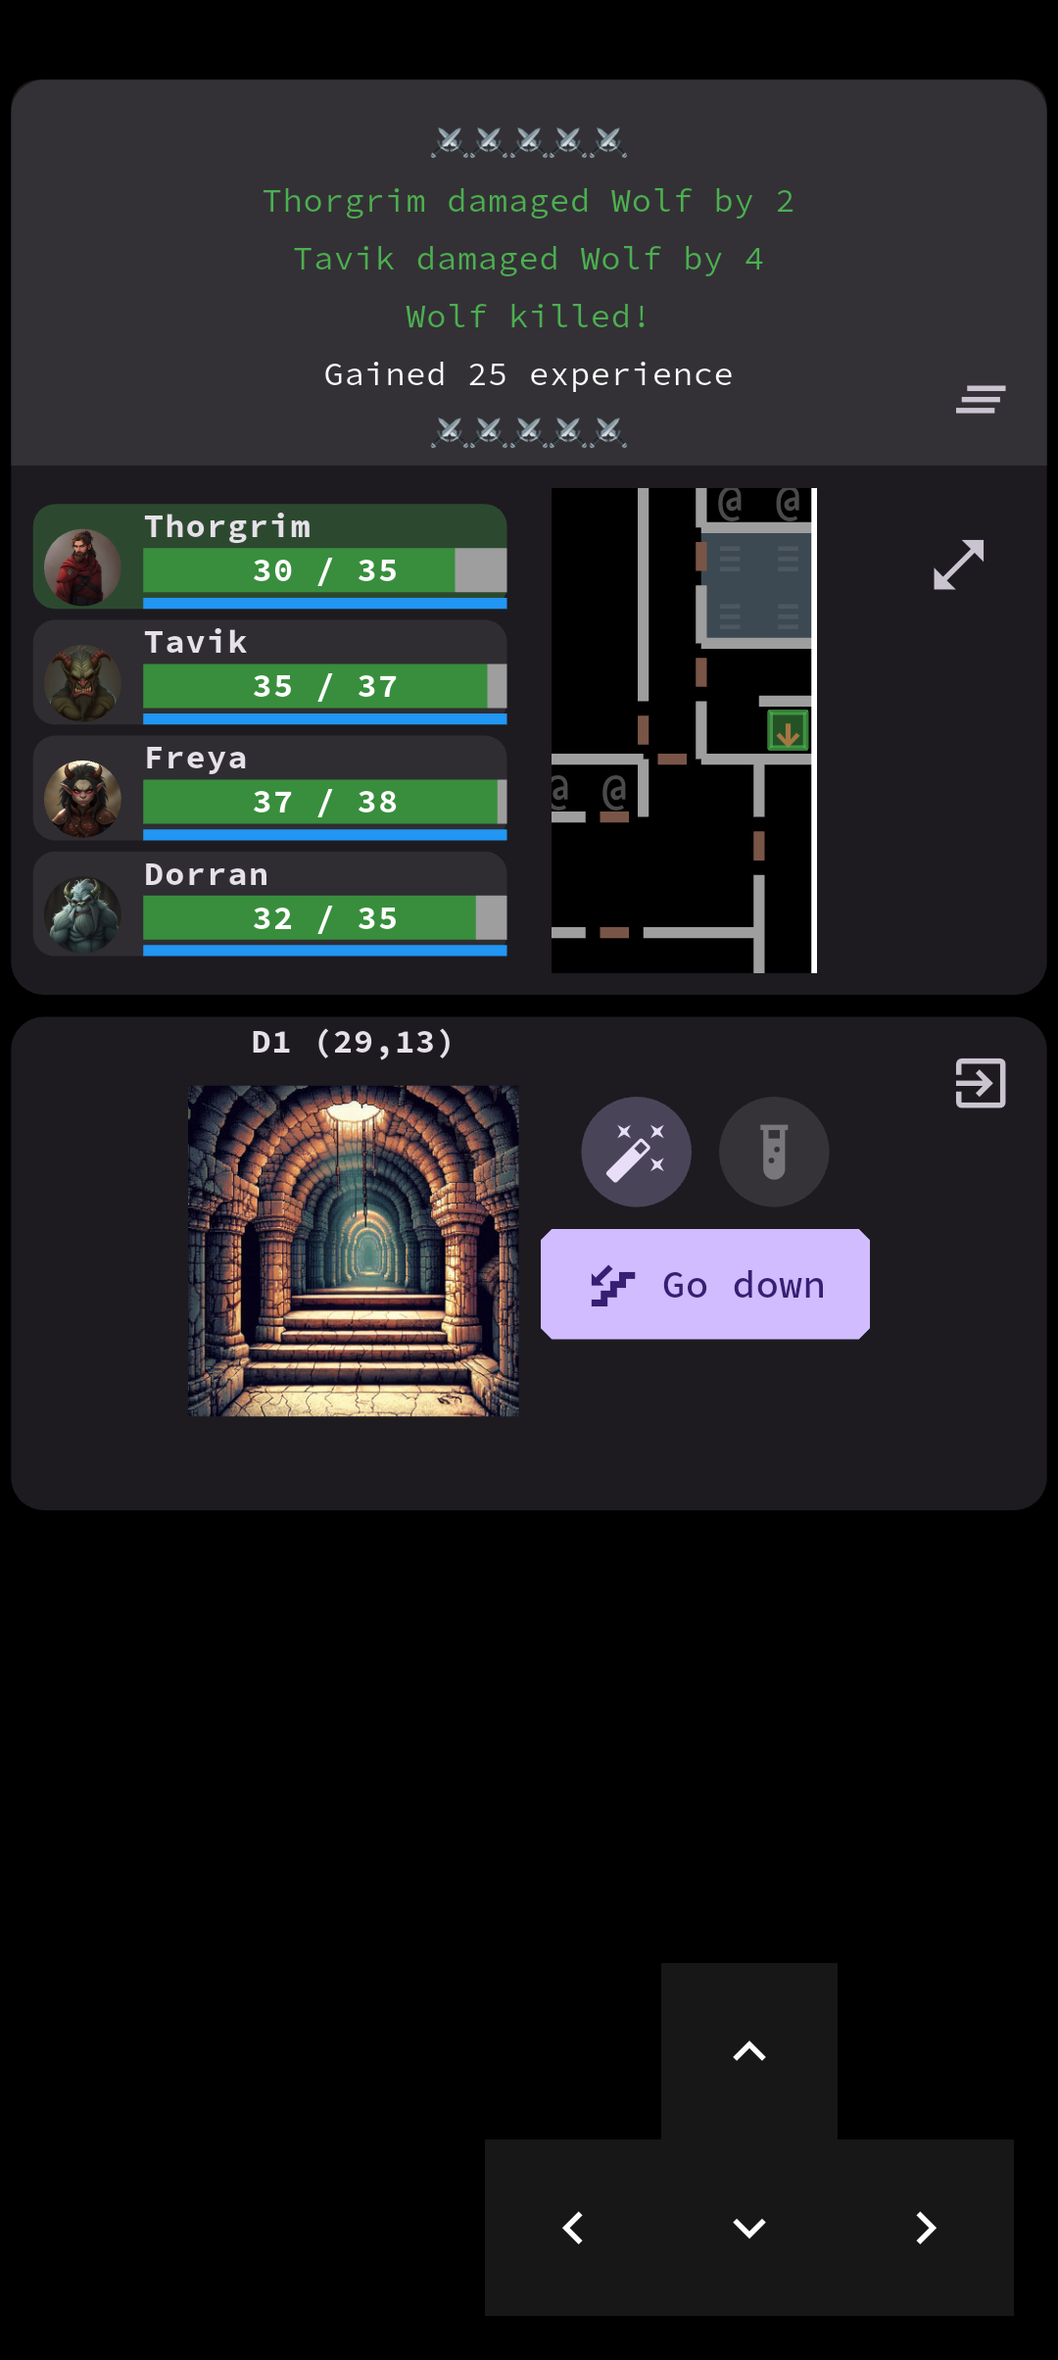
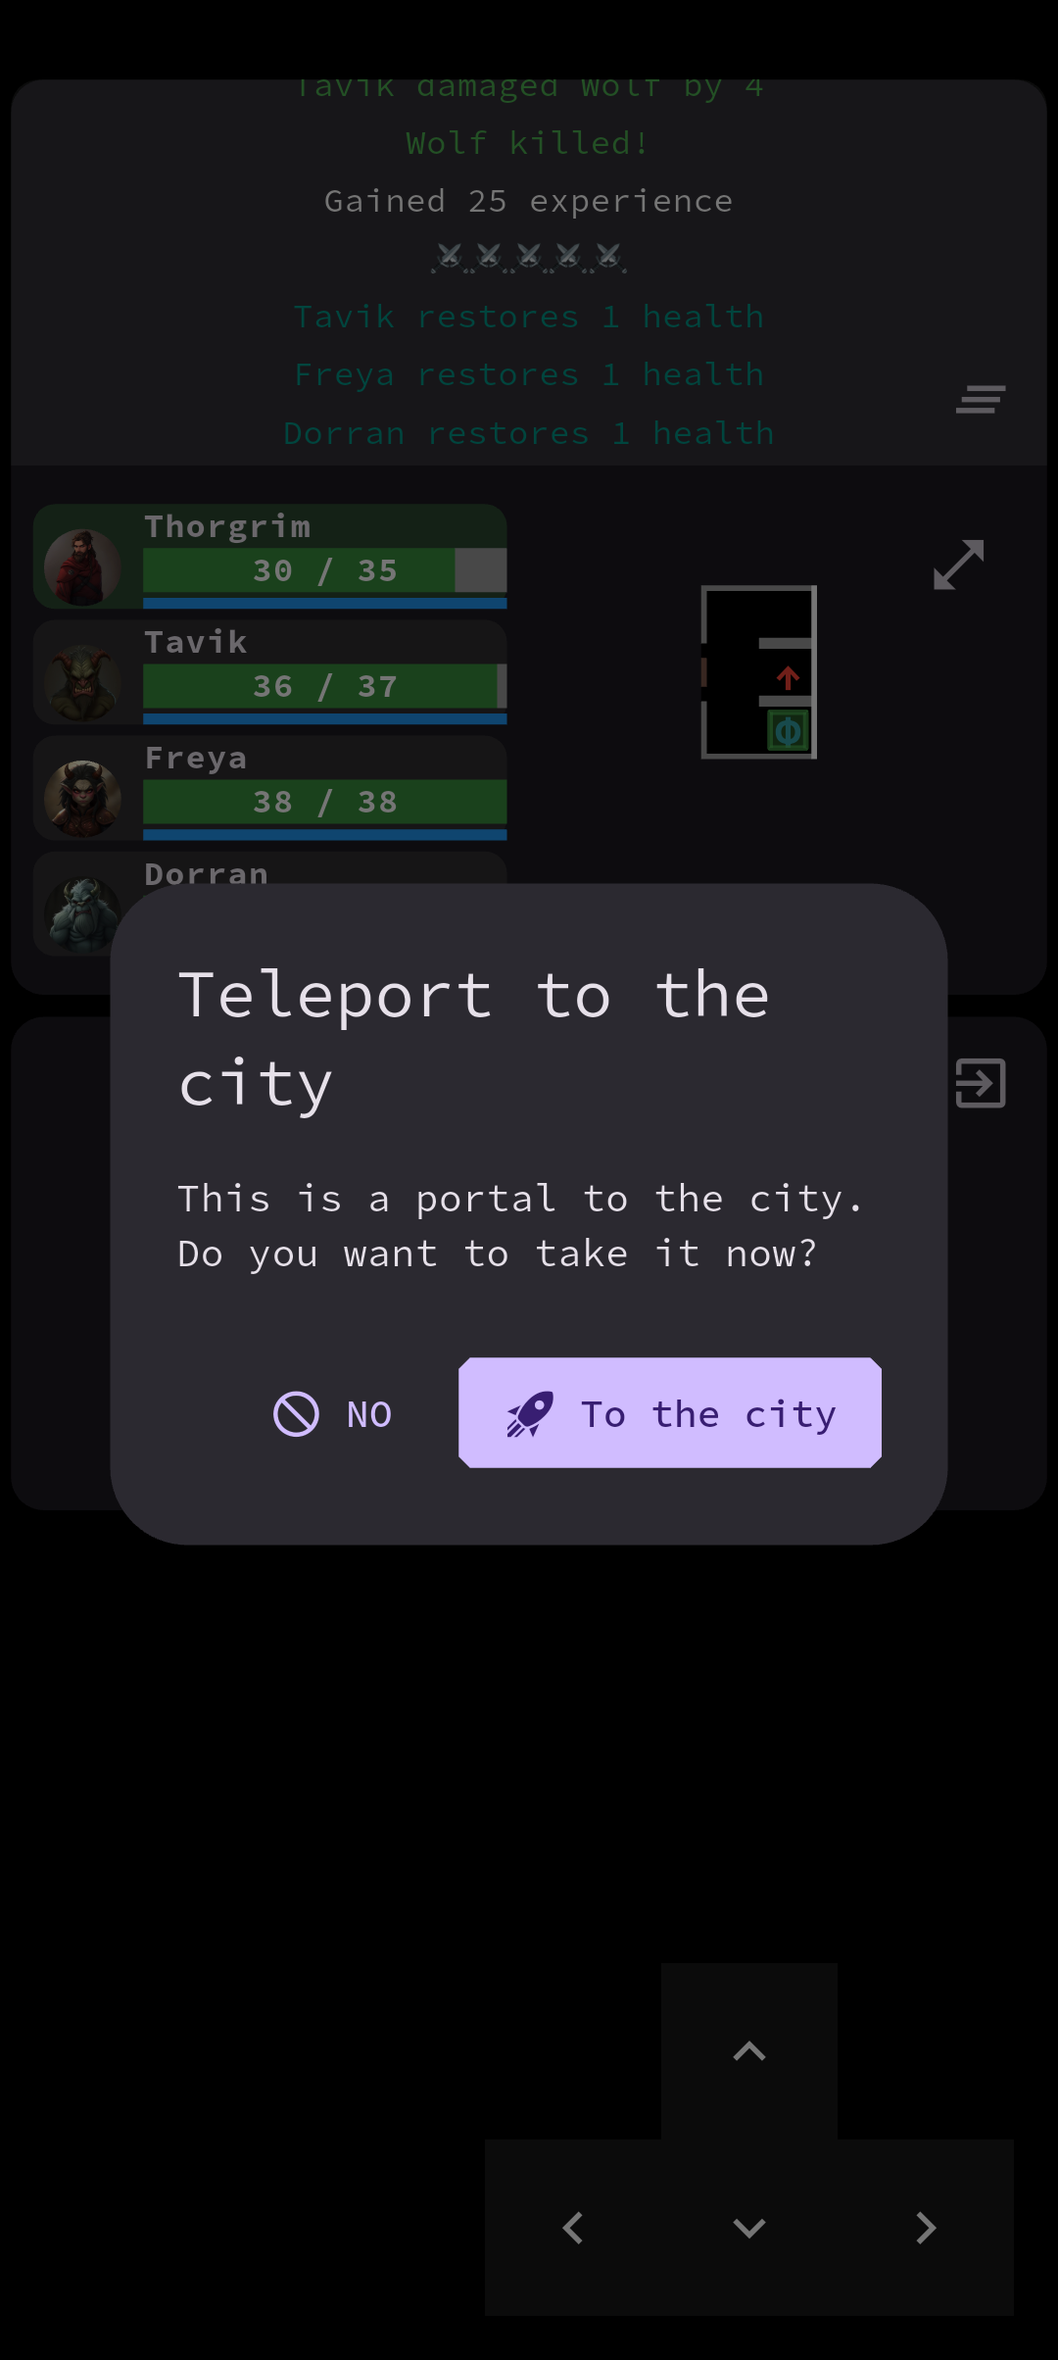
A

diff --git a/src/screencap.rs b/src/screencap.rs
@@ -284,7 +284,7 @@ fn get_info(image:&DynamicImage, opt:&Opt) -> DungeonInfo {
 
 pub fn bitmap_from_image(image:&DynamicImage, opt:&Opt) -> Option<Bitmap> {
     let mut bitmap = Bitmap::with_capacity(100);
-    for (x, y) in [(918u16,138u16),(749,686),(739,686),(749,686),(739,686),(749,746),(739,746),(749,746),(739,746),(749,806),(739,806),(749,806),(739,806),(809,686),(799,686),(809,686),(799,686),(809,746),(799,746),(809,746),(799,746),(560,930),(620,930),(680,930),(740,930),(800,930),(860,930),(920,930),(560,570),(560,630),(560,690),(560,750),(560,810),(560,870),(620,570),(620,630),(620,690),(620,750),(620,810),(620,870),(680,570),(680,630),(680,690),(680,750),(680,810),(680,870),(740,570),(740,630),(740,690),(740,750),(740,810),(740,870),(800,570),(800,630),(800,690),(800,750),(800,810),(800,870),(860,570),(860,630),(860,690),(860,750),(860,810),(860,870),(920,570),(920,630),(920,690),(920,750),(920,810),(920,870),(928,574),(928,634),(928,694),(928,754),(928,814),(928,874),(928,934),(568,574),(568,634),(568,694),(568,754),(568,814),(568,874),(568,934),(628,574),(628,634),(628,694),(628,754),(628,814),(628,874),(628,934),(688,574),(688,634),(688,694),(688,754),(688,814),(688,874),(688,934),(748,574),(748,634),(748,694),(748,754),(748,814),(748,874),(748,934),(808,574),(808,634),(808,694),(808,754),(808,814),(808,874),(808,934),(868,574),(868,634),(868,694),(868,754),(868,814),(868,874),(868,934),(642, 1201),(608, 1307),(609, 1329),(952,927),(926,953),(897,927),(592,927),(566,953),(537,927),(652,927),(626,953),(597,927),(712,927),(686,953),(657,927),(772,927),(746,953),(717,927),(832,927),(806,953),(777,927),(892,927),(866,953),(837,927),(592,867),(566,893),(537,867),(652,867),(626,893),(597,867),(712,867),(686,893),(657,867),(772,867),(746,893),(717,867),(832,867),(806,893),(777,867),(892,867),(866,893),(837,867),(952,867),(926,893),(897,867),(892,627),(866,653),(837,627),(892,687),(866,713),(837,687),(892,747),(866,773),(837,747),(892,807),(866,833),(837,807),(926,538),(952,567),(926,593),(897,567),(952,627),(926,653),(897,627),(952,687),(926,713),(897,687),(952,747),(926,773),(897,747),(952,807),(926,833),(897,807),(592,567),(566,593),(537,567),(592,627),(566,653),(537,627),(592,687),(566,713),(537,687),(592,747),(566,773),(537,747),(592,807),(566,833),(537,807),(652,567),(626,593),(597,567),(652,627),(626,653),(597,627),(652,687),(626,713),(597,687),(652,747),(626,773),(597,747),(652,807),(626,833),(597,807),(712,567),(686,593),(657,567),(712,627),(686,653),(657,627),(712,687),(686,713),(657,687),(712,747),(686,773),(657,747),(712,807),(686,833),(657,807),(772,567),(746,593),(717,567),(772,627),(746,653),(717,627),(772,687),(746,713),(717,687),(772,747),(746,773),(717,747),(772,807),(746,833),(717,807),(832,567),(806,593),(777,567),(832,627),(806,653),(777,627),(832,687),(806,713),(777,687),(832,747),(806,773),(777,747),(832,807),(806,833),(777,807),(866,538),(892,567),(866,593),(837,567),(566,898),(626,898),(686,898),(746,898),(806,898),(866,898),(926,898),(866,538),(566,838),(626,838),(686,838),(746,598),(746,658),(746,718),(746,778),(746,838),(806,538),(806,598),(806,658),(806,718),(806,778),(806,838),(866,598),(866,658),(866,718),(866,778),(866,838),(926,598),(926,658),(926,718),(926,778),(926,838),(566,538),(566,598),(566,658),(566,718),(566,778),(626,538),(626,598),(626,658),(626,718),(626,778),(686,538),(686,598),(686,658),(686,718),(686,778),(746,538),(147,680), (147,800), (75,1512), (147,920),(466,1116),(827,1306),(147,560),(671,1309),(90,1472),(511,1471),(511-89,1471),(514,560),(291,560),(514,680),(514,800),(514,920),(566,566),(564,566),(566,537),(566,538),(592,566),(566,592),(537,566),(566,626),(564,626),(566,597),(592,626),(566,652),(537,626),(566,686),(566,746),(566,806),(564,806),(566,777),(592,806),(566,832),(537,806),(566,866),(566,926),(626,566),(624,566),(626,537),(652,566),(626,592),(597,566),(626,626),(624,626),(626,597),(652,626),(626,652),(597,626),(626,686),(626,746),(626,806),(624,806),(626,777),(652,806),(626,832),(597,806),(626,866),(626,926),(686,566),(684,566),(686,537),(712,566),(686,592),(657,566),(686,626),(684,626),(686,597),(712,626),(686,652),(657,626),(686,686),(686,746),(686,806),(684,806),(686,777),(712,806),(686,832),(657,806),(686,866),(686,926),(746,566),(744,566),(746,537),(772,566),(746,592),(717,566),(746,626),(746,686),(746,746),(746,806),(744,806),(746,777),(772,806),(746,832),(717,806),(746,866),(746,926),(806,566),(804,566),(806,537),(832,566),(806,592),(777,566),(806,626),(804,626),(806,597),(832,626),(806,652),(777,626),(806,686),(804,686),(806,657),(832,686),(806,712),(777,686),(806,746),(804,746),(806,717),(832,746),(806,772),(777,746),(806,806),(804,806),(806,777),(832,806),(806,832),(777,806),(806,866),(806,926),(866,566),(864,566),(866,537),(892,566),(866,592),(837,566),(866,626),(864,626),(866,597),(892,626),(866,652),(837,626),(866,686),(864,686),(866,657),(892,686),(866,712),(837,686),(866,746),(864,746),(866,717),(892,746),(866,772),(837,746),(866,806),(864,806),(866,777),(892,806),(866,832),(837,806),(866,866),(866,926),(926,566),(924,566),(926,537),(952,566),(926,592),(897,566),(926,626),(924,626),(926,597),(952,626),(926,652),(897,626),(926,686),(924,686),(926,657),(952,686),(926,712),(897,686),(926,746),(924,746),(926,717),(952,746),(926,772),(897,746),(926,806),(924,806),(926,777),(952,806),(926,832),(897,806),(926,866),(926,926),(355,1471),(355-89,1471),(181,1471),(181-89,1471),(291,920),(827,1260),(979,1083),(1023,1116),(716,1279),(564,686),(566,657),(592,686),(566,712),(537,686),(564,866),(566,837),(592,866),(566,892),(537,866),(624,686),(626,657),(652,686),(626,712),(597,686),(624,866),(626,837),(652,866),(626,892),(597,866),(684,686),(686,657),(712,686),(686,712),(657,686),(684,866),(686,837),(712,866),(686,892),(657,866),(744,626),(746,597),(772,626),(746,652),(717,626),(744,866),(746,837),(772,866),(746,892),(717,866),(804,866),(806,837),(832,866),(806,892),(777,866),(864,866),(866,837),(892,866),(866,892),(837,866),(924,866),(926,837),(952,866),(926,892),(897,866),(564,746),(566,717),(592,746),(566,772),(537,746),(564,926),(566,897),(592,926),(566,952),(537,926),(624,746),(626,717),(652,746),(626,772),(597,746),(624,926),(626,897),(652,926),(626,952),(597,926),(684,746),(686,717),(712,746),(686,772),(657,746),(684,926),(686,897),(712,926),(686,952),(657,926),(744,686),(746,657),(772,686),(746,712),(717,686),(744,926),(746,897),(772,926),(746,952),(717,926),(804,926),(806,897),(832,926),(806,952),(777,926),(864,926),(866,897),(892,926),(866,952),(837,926),(924,926),(926,897),(952,926),(926,952),(897,926),(690,1306),(422,1471),(744,746),(746,717),(772,746),(746,772),(717,746),(291,680),(717,1326),(291,800),(949,138),(919,168),(949,168),(752,1926),(462,1254)] {
+    for (x, y) in [(918u16,138u16),(911,940),(155,940),(749,686),(739,686),(749,686),(739,686),(749,746),(739,746),(749,746),(739,746),(749,806),(739,806),(749,806),(739,806),(809,686),(799,686),(809,686),(799,686),(809,746),(799,746),(809,746),(799,746),(560,930),(620,930),(680,930),(740,930),(800,930),(860,930),(920,930),(560,570),(560,630),(560,690),(560,750),(560,810),(560,870),(620,570),(620,630),(620,690),(620,750),(620,810),(620,870),(680,570),(680,630),(680,690),(680,750),(680,810),(680,870),(740,570),(740,630),(740,690),(740,750),(740,810),(740,870),(800,570),(800,630),(800,690),(800,750),(800,810),(800,870),(860,570),(860,630),(860,690),(860,750),(860,810),(860,870),(920,570),(920,630),(920,690),(920,750),(920,810),(920,870),(928,574),(928,634),(928,694),(928,754),(928,814),(928,874),(928,934),(568,574),(568,634),(568,694),(568,754),(568,814),(568,874),(568,934),(628,574),(628,634),(628,694),(628,754),(628,814),(628,874),(628,934),(688,574),(688,634),(688,694),(688,754),(688,814),(688,874),(688,934),(748,574),(748,634),(748,694),(748,754),(748,814),(748,874),(748,934),(808,574),(808,634),(808,694),(808,754),(808,814),(808,874),(808,934),(868,574),(868,634),(868,694),(868,754),(868,814),(868,874),(868,934),(642, 1201),(608, 1307),(609, 1329),(952,927),(926,953),(897,927),(592,927),(566,953),(537,927),(652,927),(626,953),(597,927),(712,927),(686,953),(657,927),(772,927),(746,953),(717,927),(832,927),(806,953),(777,927),(892,927),(866,953),(837,927),(592,867),(566,893),(537,867),(652,867),(626,893),(597,867),(712,867),(686,893),(657,867),(772,867),(746,893),(717,867),(832,867),(806,893),(777,867),(892,867),(866,893),(837,867),(952,867),(926,893),(897,867),(892,627),(866,653),(837,627),(892,687),(866,713),(837,687),(892,747),(866,773),(837,747),(892,807),(866,833),(837,807),(926,538),(952,567),(926,593),(897,567),(952,627),(926,653),(897,627),(952,687),(926,713),(897,687),(952,747),(926,773),(897,747),(952,807),(926,833),(897,807),(592,567),(566,593),(537,567),(592,627),(566,653),(537,627),(592,687),(566,713),(537,687),(592,747),(566,773),(537,747),(592,807),(566,833),(537,807),(652,567),(626,593),(597,567),(652,627),(626,653),(597,627),(652,687),(626,713),(597,687),(652,747),(626,773),(597,747),(652,807),(626,833),(597,807),(712,567),(686,593),(657,567),(712,627),(686,653),(657,627),(712,687),(686,713),(657,687),(712,747),(686,773),(657,747),(712,807),(686,833),(657,807),(772,567),(746,593),(717,567),(772,627),(746,653),(717,627),(772,687),(746,713),(717,687),(772,747),(746,773),(717,747),(772,807),(746,833),(717,807),(832,567),(806,593),(777,567),(832,627),(806,653),(777,627),(832,687),(806,713),(777,687),(832,747),(806,773),(777,747),(832,807),(806,833),(777,807),(866,538),(892,567),(866,593),(837,567),(566,898),(626,898),(686,898),(746,898),(806,898),(866,898),(926,898),(866,538),(566,838),(626,838),(686,838),(746,598),(746,658),(746,718),(746,778),(746,838),(806,538),(806,598),(806,658),(806,718),(806,778),(806,838),(866,598),(866,658),(866,718),(866,778),(866,838),(926,598),(926,658),(926,718),(926,778),(926,838),(566,538),(566,598),(566,658),(566,718),(566,778),(626,538),(626,598),(626,658),(626,718),(626,778),(686,538),(686,598),(686,658),(686,718),(686,778),(746,538),(147,680), (147,800), (75,1512), (147,920),(466,1116),(827,1306),(147,560),(671,1309),(90,1472),(511,1471),(511-89,1471),(514,560),(291,560),(514,680),(514,800),(514,920),(566,566),(564,566),(566,537),(566,538),(592,566),(566,592),(537,566),(566,626),(564,626),(566,597),(592,626),(566,652),(537,626),(566,686),(566,746),(566,806),(564,806),(566,777),(592,806),(566,832),(537,806),(566,866),(566,926),(626,566),(624,566),(626,537),(652,566),(626,592),(597,566),(626,626),(624,626),(626,597),(652,626),(626,652),(597,626),(626,686),(626,746),(626,806),(624,806),(626,777),(652,806),(626,832),(597,806),(626,866),(626,926),(686,566),(684,566),(686,537),(712,566),(686,592),(657,566),(686,626),(684,626),(686,597),(712,626),(686,652),(657,626),(686,686),(686,746),(686,806),(684,806),(686,777),(712,806),(686,832),(657,806),(686,866),(686,926),(746,566),(744,566),(746,537),(772,566),(746,592),(717,566),(746,626),(746,686),(746,746),(746,806),(744,806),(746,777),(772,806),(746,832),(717,806),(746,866),(746,926),(806,566),(804,566),(806,537),(832,566),(806,592),(777,566),(806,626),(804,626),(806,597),(832,626),(806,652),(777,626),(806,686),(804,686),(806,657),(832,686),(806,712),(777,686),(806,746),(804,746),(806,717),(832,746),(806,772),(777,746),(806,806),(804,806),(806,777),(832,806),(806,832),(777,806),(806,866),(806,926),(866,566),(864,566),(866,537),(892,566),(866,592),(837,566),(866,626),(864,626),(866,597),(892,626),(866,652),(837,626),(866,686),(864,686),(866,657),(892,686),(866,712),(837,686),(866,746),(864,746),(866,717),(892,746),(866,772),(837,746),(866,806),(864,806),(866,777),(892,806),(866,832),(837,806),(866,866),(866,926),(926,566),(924,566),(926,537),(952,566),(926,592),(897,566),(926,626),(924,626),(926,597),(952,626),(926,652),(897,626),(926,686),(924,686),(926,657),(952,686),(926,712),(897,686),(926,746),(924,746),(926,717),(952,746),(926,772),(897,746),(926,806),(924,806),(926,777),(952,806),(926,832),(897,806),(926,866),(926,926),(355,1471),(355-89,1471),(181,1471),(181-89,1471),(291,920),(827,1260),(979,1083),(1023,1116),(716,1279),(564,686),(566,657),(592,686),(566,712),(537,686),(564,866),(566,837),(592,866),(566,892),(537,866),(624,686),(626,657),(652,686),(626,712),(597,686),(624,866),(626,837),(652,866),(626,892),(597,866),(684,686),(686,657),(712,686),(686,712),(657,686),(684,866),(686,837),(712,866),(686,892),(657,866),(744,626),(746,597),(772,626),(746,652),(717,626),(744,866),(746,837),(772,866),(746,892),(717,866),(804,866),(806,837),(832,866),(806,892),(777,866),(864,866),(866,837),(892,866),(866,892),(837,866),(924,866),(926,837),(952,866),(926,892),(897,866),(564,746),(566,717),(592,746),(566,772),(537,746),(564,926),(566,897),(592,926),(566,952),(537,926),(624,746),(626,717),(652,746),(626,772),(597,746),(624,926),(626,897),(652,926),(626,952),(597,926),(684,746),(686,717),(712,746),(686,772),(657,746),(684,926),(686,897),(712,926),(686,952),(657,926),(744,686),(746,657),(772,686),(746,712),(717,686),(744,926),(746,897),(772,926),(746,952),(717,926),(804,926),(806,897),(832,926),(806,952),(777,926),(864,926),(866,897),(892,926),(866,952),(837,926),(924,926),(926,897),(952,926),(926,952),(897,926),(690,1306),(422,1471),(744,746),(746,717),(772,746),(746,772),(717,746),(291,680),(717,1326),(291,800),(949,138),(919,168),(949,168),(752,1926),(462,1254)] {
         bitmap.set_pixel(x, y, image.get_pixel(x as u32, y as u32).0[0..3].try_into().unwrap());
     }
     if !opt.no_ocr {

diff --git a/src/ml.rs b/src/ml.rs
@@ -102,6 +102,7 @@ pub enum StateType {
     Main,
     City(bool),
     Dungeon,
+    TeleportToCity,
 }
 impl Into<State> for StateType {
     fn into(self) -> State {
@@ -352,7 +353,7 @@ fn get_tiles(info:&DungeonInfo, image:&Bitmap) -> Vec<Tile> {
                 let color4 = image.get_pixel(x as u16 - 5, y as u16);
                 //println!("{x}x{y} {color:?} {color2:?} {color3:?}");
                 if (*color == clr || *color == clr_faded)  && (*color2 == clr || *color2 == clr_faded) && *color3 != clr && *color3 == clr_faded && *color4 == clr && *color4 == clr_faded  {
-                    println!("{x}x{y}");
+                    //println!("{x}x{y}");
                     true
                 }
                 else {
@@ -368,8 +369,8 @@ fn get_tiles(info:&DungeonInfo, image:&Bitmap) -> Vec<Tile> {
                 let color3 = image.get_pixel(x as u16 + 5, y as u16);
                 let color4 = image.get_pixel(x as u16 - 5, y as u16);
                 //println!("{x}x{y} {color:?} {color2:?} {color3:?}");
-                if (*color == clr || *color == clr_faded)  && (*color2 == clr || *color2 == clr_faded) && (*color3 == clr || *color3 == clr_faded) && (*color4 == clr || *color4 == clr_faded)  {
-                    println!("{x}x{y}");
+                if (*color == clr || *color == clr_faded)  && *color2 != clr && *color2 != clr_faded && (*color3 == clr || *color3 == clr_faded) && (*color4 == clr || *color4 == clr_faded)  {
+                    //println!("{x}x{y}");
                     true
                 }
                 else {
@@ -377,14 +378,14 @@ fn get_tiles(info:&DungeonInfo, image:&Bitmap) -> Vec<Tile> {
                 }
             }
 
-            is_go_up(image, x-2, y);
+            let is_go_up = is_go_up(image, x-2, y);
             let position = Coords{x: (x_base + x_count as i32) as u32, y: (y_base + y_count as i32) as u32};
             let tile = Tile {
                 explored: !pixel_color(image, (x, y).into(), TILE_UNEXPLORED),
                 trap: false,
                 visited: false,
                 is_city: is_city(image, x-2, y),
-                is_go_down: position != (15, 15).into() && is_go_down(image, x-2, y),
+                is_go_down: position != (15, 15).into() && !is_go_up && is_go_down(image, x-2, y),
                 //is_city: pixel_color(image, (x-2, y).into(), Rgb([244, 67, 54])),
                 position: position,
                 north_passable: !is_wall(image, x, TILE_START.1 + y_count * TILE_SIZE.1 + 1),
@@ -893,6 +894,12 @@ pub fn get_state(old_state:State, image:&Bitmap) -> Result<State, StateError> {
     if pixels_same_color(&image, [(918, 138).into(), (949, 138).into(), (919, 168).into(), (949, 168).into()].into_iter(), image::Rgb([202, 196, 208])) {
         return Ok(Into::<State>::into(StateType::Ad).merge(old_state));
     }
+    if pixels_same_color(&image, [(911, 940).into(), (155, 940).into(), (919, 168).into(), (949, 168).into()].into_iter(), image::Rgb([43, 41, 48])) {
+        return Ok(Into::<State>::into(StateType::TeleportToCity).merge(old_state));
+    }
+    if pixels_same_color(&image, [(918, 138).into(), (949, 138).into(), (919, 168).into(), (949, 168).into()].into_iter(), image::Rgb([202, 196, 208])) {
+        return Ok(Into::<State>::into(StateType::Ad).merge(old_state));
+    }
     if pixel_color(&image, (466, 1116).into(), image::Rgb([185, 207, 220])) && pixels_same_color(&image, [(690, 1306).into(), (717, 1326).into()].into_iter(), image::Rgb([56, 30, 114])) {
         return Ok(Into::<State>::into((StateType::Dungeon, Dungeon::new(DungeonState::IdleChest, &image, old_state.get_position()))).merge(old_state));
     }
@@ -930,6 +937,9 @@ pub enum Action {
     GotoDungeon,
     GoDown,
 
+    CancelTeleportToCity,
+    TeleportToCity,
+
     FindFight(MoveDirection, (Tile, u32)),
     Fight,
     OpenChest,
@@ -943,6 +953,14 @@ pub fn determine_action(state:&State, last_action:Action, old_position:Option<Co
     match state.state_type {
         StateType::Ad => {
             Action::CloseAd
+        },
+        StateType::TeleportToCity => {
+            if state.dungeon.has_dead_character() {
+                Action::TeleportToCity
+            }
+            else {
+                Action::CancelTeleportToCity
+            }
         },
         StateType::Main => {
             Action::GotoTown
@@ -1085,6 +1103,12 @@ pub fn run_action(device:&str, opt:&Opt, state:&mut State, action:&Action) -> Op
         Action::GotoDungeon => {
             state.dungeon.clear_visited();
             adb_tap(device, opt, 890, 1928);
+        },
+        Action::CancelTeleportToCity => {
+            adb_tap(device, opt, 331, 1440);
+        },
+        Action::TeleportToCity => {
+            adb_tap(device, opt, 680, 1440);
         },
         Action::GoDown => {
             state.dungeon.tiles = Vec::new();

diff --git a/src/main.rs b/src/main.rs
@@ -227,6 +227,11 @@ fn main() {
             Action::CloseAd => {
                 std::thread::sleep(std::time::Duration::from_millis(200));
             },
+            Action::TeleportToCity => {
+                std::thread::sleep(std::time::Duration::from_millis(200));
+            },
+            Action::CancelTeleportToCity => {
+            },
             Action::GotoTown => {
                 std::thread::sleep(std::time::Duration::from_millis(200));
             },
@@ -282,6 +287,8 @@ fn run(opt:&Opt, device:&str, old_state:State, last_action:Action) -> (State, Ac
     }
     match action {
         Action::CloseAd => println!("CloseAd"),
+        Action::CancelTeleportToCity => println!("CancelTeleportToCity"),
+        Action::TeleportToCity => println!("TeleportToCity"),
         Action::GotoTown => println!("GotoTown"),
         Action::GotoDungeon => println!("GotoDungeon"),
         Action::GoDown => println!("GoDown"),
